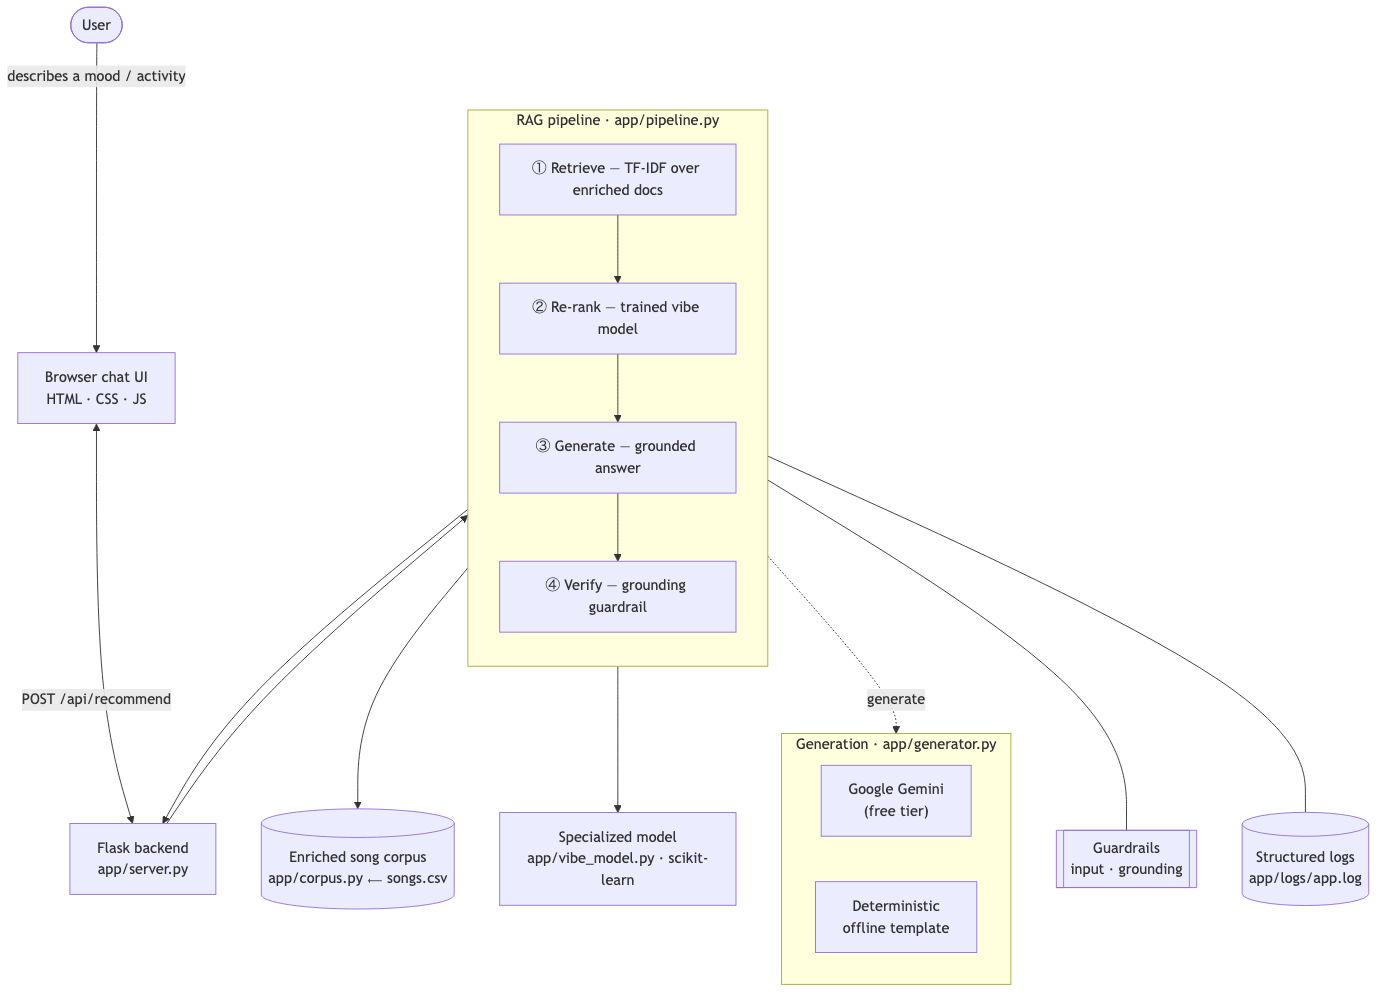
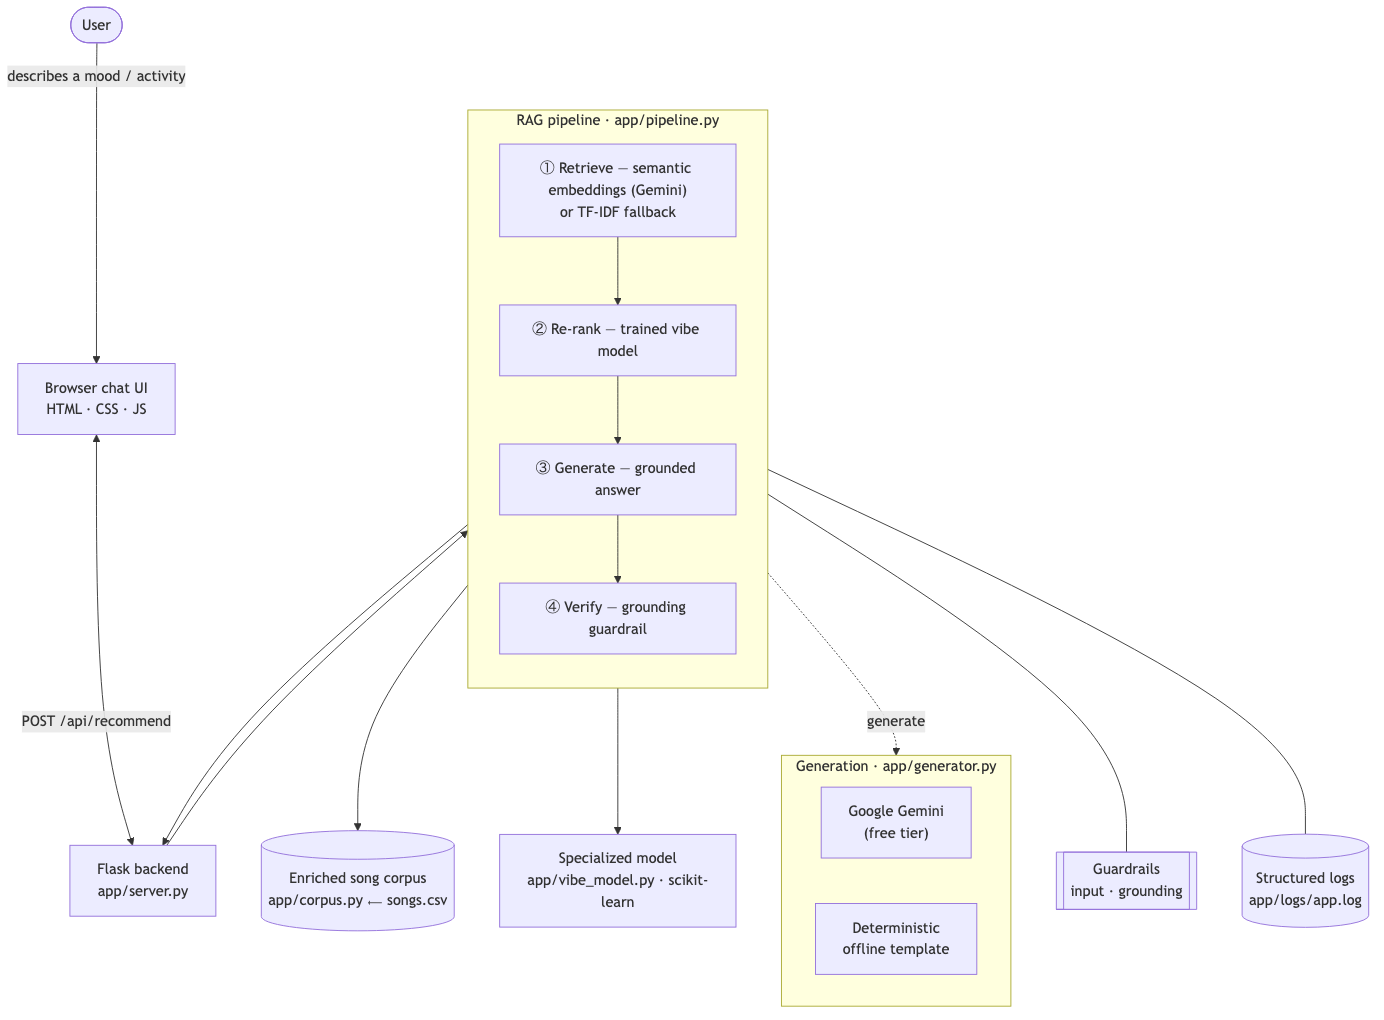
Add embedding tests, docs, and diagram; add numpy dependency

diff --git a/app/tests/test_pipeline.py b/app/tests/test_pipeline.py
@@ -35,6 +35,24 @@ def test_retriever_is_relevant():
     assert "Someone Like You" in [h["title"] for h in sad]
 
 
+def test_retriever_defaults_to_tfidf_offline():
+    # With no GEMINI_API_KEY, retrieval falls back to the local TF-IDF backend.
+    assert retriever.build_retriever().name == "tfidf"
+
+
+def test_embedding_retriever_ranks_by_cosine():
+    import numpy as np
+
+    docs = [{"title": "A", "text": "a"}, {"title": "B", "text": "b"}, {"title": "C", "text": "c"}]
+    matrix = retriever._normalize_rows(np.array([[1, 0], [0, 1], [0.7, 0.7]], dtype="float32"))
+    er = retriever.EmbeddingRetriever(docs, matrix, lambda q: np.array([1, 0], dtype="float32"))
+
+    res = er.retrieve("anything", k=2)
+    assert er.name == "embedding"
+    assert res[0]["title"] == "A"           # most aligned with the query vector
+    assert "retrieval_score" in res[0]
+
+
 # ── Specialized model ──────────────────────────────────────────────────────
 def test_vibe_model_trains_predicts_and_evaluates():
     model = vibe_model.get_model()

diff --git a/README.md b/README.md
@@ -7,17 +7,19 @@ Module 3 recommender into an applied AI system with two advanced features.
 
 ![Architecture](assets/architecture.png)
 
-> Generation uses **Google Gemini** (free tier) when a key is set, and a **deterministic
-> offline template** otherwise — so the app always runs and is fully testable without a key.
-> Retrieval and the vibe model are 100% local.
+> Generation **and semantic retrieval** use **Google Gemini** (free tier) when a key is set.
+> Without a key the app uses a **deterministic offline template** for generation and a local
+> **TF-IDF** retriever — so it always runs and is fully testable. The vibe model is always local.
 
 ## Two advanced AI features
 
 **1. Retrieval-Augmented Generation (RAG).** Structured songs from `songs.csv` are turned into
-natural-language description documents ([`app/corpus.py`](app/corpus.py)). A TF-IDF index
-([`app/retriever.py`](app/retriever.py)) retrieves the songs most relevant to your request, and
-the generator answers **using only those retrieved songs** — the retrieved data drives the
-response, and invented titles are rejected by a grounding guardrail.
+natural-language description documents ([`app/corpus.py`](app/corpus.py)). A retriever
+([`app/retriever.py`](app/retriever.py)) finds the songs most relevant to your request — using
+**semantic Gemini embeddings** ([`app/embeddings.py`](app/embeddings.py)) when a key is set, and
+a local **TF-IDF** index otherwise — and the generator answers **using only those retrieved
+songs**: the retrieved data drives the response, and invented titles are rejected by a grounding
+guardrail. Document embeddings are computed once and cached to `app/models/`.
 
 **2. Specialized / trained model.** A scikit-learn classifier
 ([`app/vibe_model.py`](app/vibe_model.py)) is trained on the catalog's audio features (energy,
@@ -88,7 +90,8 @@ original Module 3 project is preserved in
 .
 ├── app/                        # the Music RAG Recommender
 │   ├── corpus.py               # enriched song documents (RAG source)
-│   ├── retriever.py            # TF-IDF retrieval (RAG: Retrieve)
+│   ├── retriever.py            # retrieval (RAG: Retrieve) — embeddings or TF-IDF
+│   ├── embeddings.py           # Gemini embeddings client (semantic search)
 │   ├── vibe_model.py           # trained scikit-learn vibe classifier
 │   ├── generator.py            # grounded generation (Gemini + offline)
 │   ├── pipeline.py             # retrieve → re-rank → generate → verify